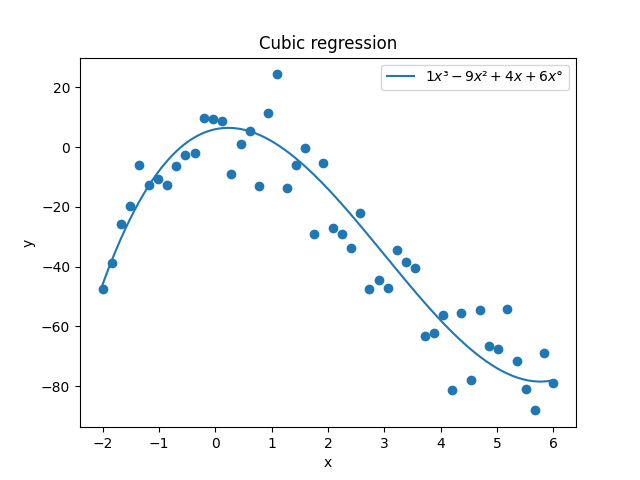
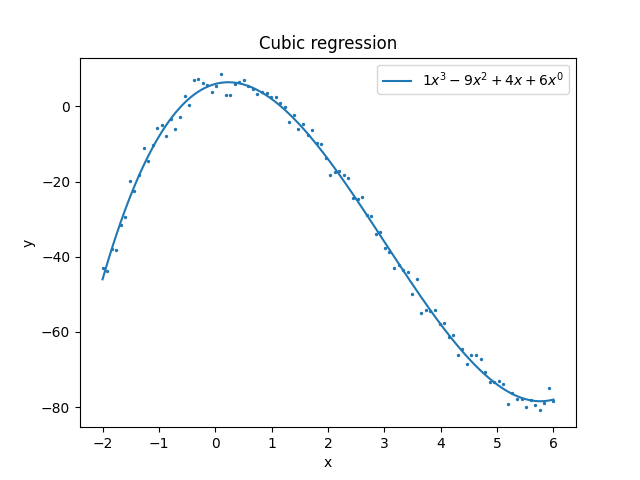
Add illustration

diff --git a/septic.py b/septic.py
@@ -1,0 +1,35 @@
+import numpy as np
+import matplotlib.pyplot as plt
+
+
+# Polynomial: x^3 - 9x^2 + 4x + 6
+def poly(x):
+    return (
+        - 0.0001 * x**7
+        + 0.009 * x**6
+        - 0.05 * x**5
+        - 0.02 * x**4
+        + 0.01 * x**3
+        - 0.09 * x**2
+        + 0.14 * x
+        + 6
+    )
+
+
+
+# Smooth curve
+x = np.linspace(-4, 6, 400)
+y = poly(x)
+
+# 50 noisy points (Gaussian noise)
+x_noise = np.linspace(-4, 6, 80)
+y_noise = poly(x_noise) + np.random.normal(0, 2, size=x_noise.shape)
+
+plt.figure()
+plt.plot(x, y, label=r"$.01 x^7 + .09 x^6 - .5 x^5 - .2 x^4 + .1 x^3 - .9 x^2 + .4 x + 6$")
+plt.scatter(x_noise, y_noise, s=2)
+plt.legend()
+plt.xlabel("x")
+plt.ylabel("y")
+plt.title("Septic regression")
+plt.savefig("septic.png")

diff --git a/cubic.py b/cubic.py
@@ -10,12 +10,12 @@ x = np.linspace(-2, 6, 400)
 y = poly(x)
 
 # 50 noisy points (Gaussian noise)
-x_noise = np.linspace(-2, 6, 50)
-y_noise = poly(x_noise) + np.random.normal(0, 10, size=x_noise.shape)
+x_noise = np.linspace(-2, 6, 100)
+y_noise = poly(x_noise) + np.random.normal(0, 2, size=x_noise.shape)
 
 plt.figure()
-plt.plot(x, y, label=r"$1x³ - 9x² + 4x + 6x°$")
-plt.scatter(x_noise, y_noise)
+plt.plot(x, y, label=r"$1x^3 - 9x^2 + 4x + 6x^0$")
+plt.scatter(x_noise, y_noise, s=2)
 plt.legend()
 plt.xlabel("x")
 plt.ylabel("y")

diff --git a/linear.py b/linear.py
@@ -10,12 +10,12 @@ x = np.linspace(-2, 6, 400)
 y = poly(x)
 
 # 50 noisy points (Gaussian noise)
-x_noise = np.linspace(-2, 6, 50)
-y_noise = poly(x_noise) + np.random.normal(0, 10, size=x_noise.shape)
+x_noise = np.linspace(-2, 6, 100)
+y_noise = poly(x_noise) + np.random.normal(0, 1, size=x_noise.shape)
 
 plt.figure()
 plt.plot(x, y, label=r"$4x - 6$")
-plt.scatter(x_noise, y_noise)
+plt.scatter(x_noise, y_noise, s=2)
 plt.legend()
 plt.xlabel("x")
 plt.ylabel("y")

diff --git a/README.md b/README.md
@@ -77,6 +77,25 @@ header-includes:
 ::::
 :::
 
+# Hva er en modell?
+
+
+::: columns
+:::: {.column width="75%"}
+
+![](septic.png)
+
+::::
+:::: {.column width="25%"}
+
+```
+.01, .09. -.5. -.2,
+.01, -.9,  .4,   6
+```
+
+::::
+:::
+
 
 # Hva er en modell?
 
